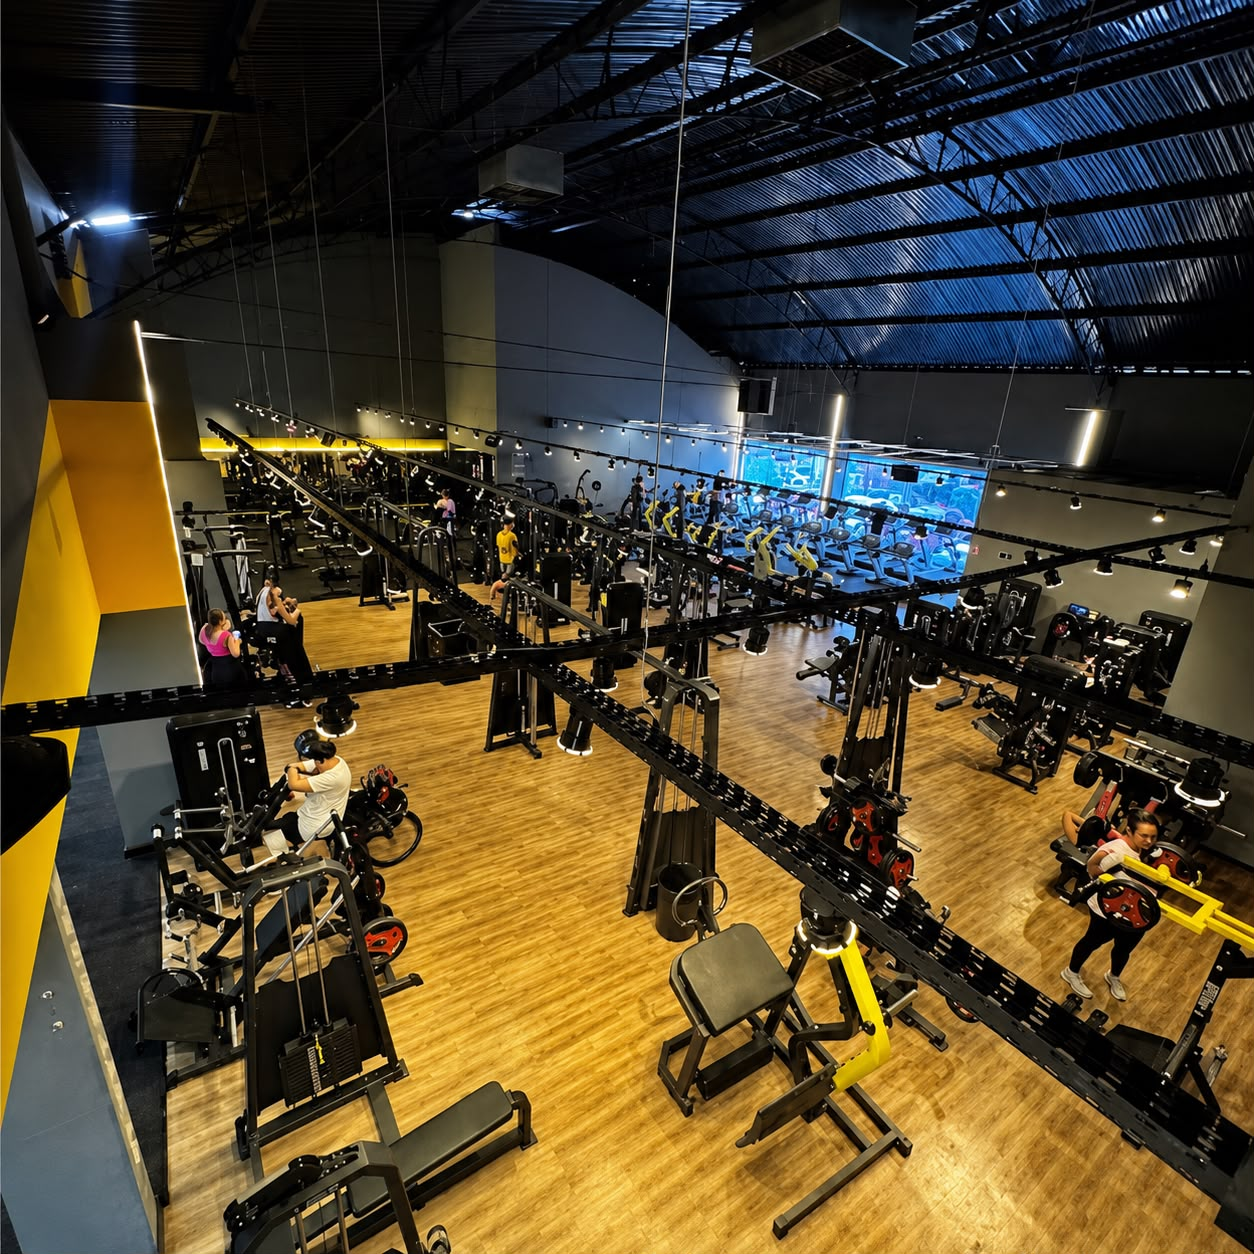
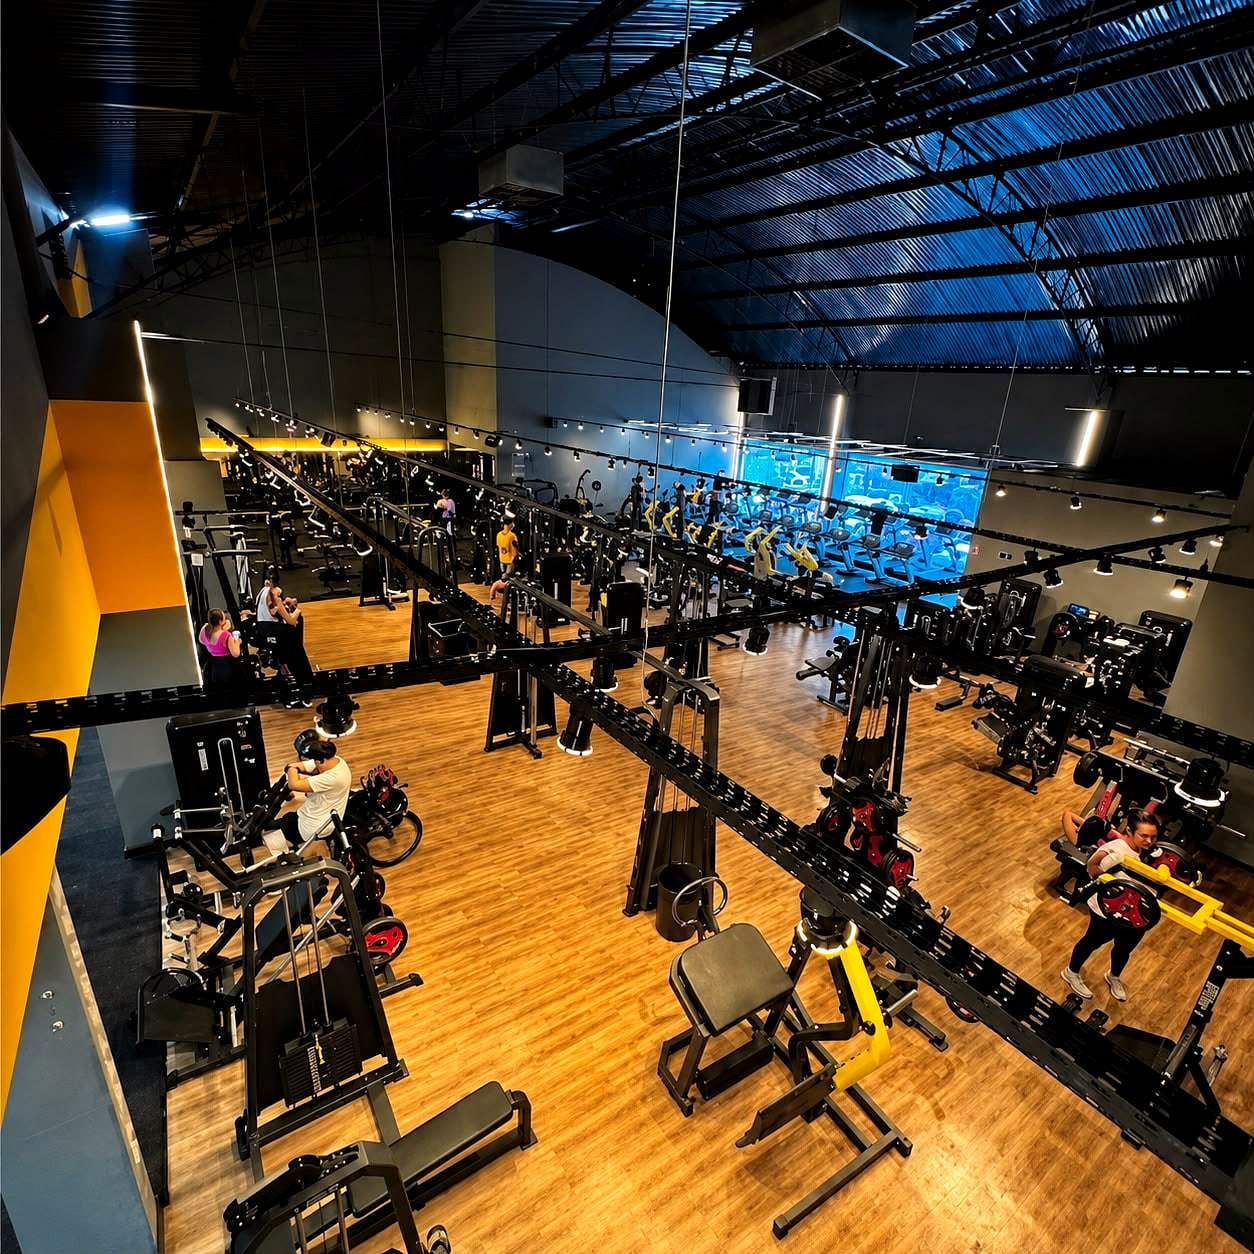
Corrige fotos ruins e remove aparência genérica
- Remove a foto de esteiras com reflexo de rua/anúncio de concorrente
  (estrutura-esteiras-vidro.jpg), que estava pouco profissional
- Corrige o corredor de equipamentos: remove aviso de papel e painel
  bagunçado que apareciam na borda esquerda da foto
- Corrige o forte tom azulado do teto na foto aérea do piso de musculação
- Reduz a seção Modalidades de 6 para 4 cards, cada um usando a foto
  real correspondente (antes reaproveitava fotos de musculação com
  legendas de "aulas coletivas"/"avaliação física", o que parecia
  template genérico preenchido com imagem errada)
- Ajusta enquadramento (object-position) para não cortar a fachada e
  a placa de neon de forma estranha
- Adiciona acabamento de cantos em amarelo (hover) e numeração nos
  cards de diferenciais para reforçar identidade visual própria

diff --git a/index.html b/index.html
@@ -178,7 +178,7 @@
 <section class="pain-section section-pad" id="transformacao">
   <div class="container pain-grid">
     <div class="pain-visual reveal" data-reveal>
-      <img src="assets/img/estrutura-musculacao-led.jpg" alt="Área de musculação da Loud Fit Anchieta com iluminação em LED" loading="lazy" width="1160" height="1254">
+      <img src="assets/img/estrutura-musculacao-led.jpg" alt="Área de musculação da Loud Fit Anchieta com iluminação em LED" loading="lazy" width="1164" height="1351">
       <div class="pain-visual-glow"></div>
     </div>
     <div class="pain-copy">
@@ -297,7 +297,7 @@
         <figcaption>Piso completo de musculação</figcaption>
       </figure>
       <figure class="mosaic-item reveal" data-reveal>
-        <img src="assets/img/fachada-loud-fit.jpg" alt="Fachada da Loud Fit Anchieta" loading="lazy" width="1128" height="1254">
+        <img src="assets/img/fachada-loud-fit.jpg" alt="Fachada da Loud Fit Anchieta" loading="lazy" width="1122" height="1402" class="obj-top">
         <figcaption>Fachada Loud Fit Anchieta</figcaption>
       </figure>
       <figure class="mosaic-item reveal" data-reveal>
@@ -305,16 +305,16 @@
         <figcaption>Área de cardio</figcaption>
       </figure>
       <figure class="mosaic-item reveal" data-reveal>
-        <img src="assets/img/estrutura-peso-livre.jpg" alt="Área de pesos livres com iluminação em LED" loading="lazy" width="1254" height="1254">
+        <img src="assets/img/estrutura-peso-livre.jpg" alt="Área de pesos livres com iluminação em LED" loading="lazy" width="1254" height="1254" class="obj-low">
         <figcaption>Pesos livres</figcaption>
       </figure>
       <figure class="mosaic-item mosaic-large reveal" data-reveal>
-        <img src="assets/img/estrutura-corredor-equipamentos.jpg" alt="Corredor de equipamentos de musculação" loading="lazy" width="1447" height="1254">
+        <img src="assets/img/estrutura-corredor-equipamentos.jpg" alt="Corredor de equipamentos de musculação" loading="lazy" width="968" height="1086">
         <figcaption>Equipamentos modernos</figcaption>
       </figure>
       <figure class="mosaic-item reveal" data-reveal>
-        <img src="assets/img/estrutura-esteiras-vidro.jpg" alt="Esteiras com vista para a rua" loading="lazy" width="1447" height="1254">
-        <figcaption>Cardio com vista</figcaption>
+        <img src="assets/img/estrutura-musculacao-pesos.jpg" alt="Área de treino de força da Loud Fit Anchieta" loading="lazy" width="1254" height="1254">
+        <figcaption>Treino de força</figcaption>
       </figure>
     </div>
 
@@ -334,45 +334,31 @@
 
     <div class="modalidades-grid" data-track-view="click_modalidades">
       <article class="modalidade-card reveal" data-reveal>
-        <div class="modalidade-img"><img src="assets/img/estrutura-vista-ampla.jpg" alt="Musculação" loading="lazy" width="600" height="450"></div>
+        <div class="modalidade-img"><img src="assets/img/estrutura-peso-livre.jpg" alt="Área de musculação da Loud Fit Anchieta" loading="lazy" width="600" height="450" class="obj-low"></div>
         <div class="modalidade-body">
           <h3>Musculação</h3>
           <p>Equipamentos completos para ganho de força e hipertrofia em qualquer nível.</p>
         </div>
       </article>
       <article class="modalidade-card reveal" data-reveal>
-        <div class="modalidade-img"><img src="assets/img/estrutura-esteiras.jpg" alt="Cardio" loading="lazy" width="600" height="450"></div>
+        <div class="modalidade-img"><img src="assets/img/estrutura-esteiras.jpg" alt="Área de cardio com esteiras" loading="lazy" width="600" height="450"></div>
         <div class="modalidade-body">
           <h3>Cardio</h3>
           <p>Esteiras e equipamentos de condicionamento para queimar calorias e evoluir o fôlego.</p>
         </div>
       </article>
       <article class="modalidade-card reveal" data-reveal>
-        <div class="modalidade-img"><img src="assets/img/estrutura-musculacao-led.jpg" alt="Aulas coletivas" loading="lazy" width="600" height="450"></div>
-        <div class="modalidade-body">
-          <h3>Aulas coletivas</h3>
-          <p>Energia em grupo para deixar o treino mais motivador e variado.</p>
-        </div>
-      </article>
-      <article class="modalidade-card reveal" data-reveal>
-        <div class="modalidade-img"><img src="assets/img/estrutura-peso-livre.jpg" alt="Avaliação física" loading="lazy" width="600" height="450"></div>
-        <div class="modalidade-body">
-          <h3>Avaliação física</h3>
-          <p>Um ponto de partida claro para acompanhar sua evolução com mais precisão.</p>
-        </div>
-      </article>
-      <article class="modalidade-card reveal" data-reveal>
-        <div class="modalidade-img"><img src="assets/img/estrutura-corredor-equipamentos.jpg" alt="Condicionamento" loading="lazy" width="600" height="450"></div>
-        <div class="modalidade-body">
-          <h3>Condicionamento</h3>
-          <p>Treinos pensados para melhorar resistência, disposição e performance.</p>
-        </div>
-      </article>
-      <article class="modalidade-card reveal" data-reveal>
-        <div class="modalidade-img"><img src="assets/img/estrutura-musculacao-pesos.jpg" alt="Treino de força" loading="lazy" width="600" height="450"></div>
+        <div class="modalidade-img"><img src="assets/img/estrutura-musculacao-pesos.jpg" alt="Área de treino de força" loading="lazy" width="600" height="450"></div>
         <div class="modalidade-body">
           <h3>Treino de força</h3>
           <p>Estrutura completa de pesos livres e máquinas para evoluir sua carga com segurança.</p>
+        </div>
+      </article>
+      <article class="modalidade-card reveal" data-reveal>
+        <div class="modalidade-img"><img src="assets/img/estrutura-musculacao-led.jpg" alt="Ambiente premium da Loud Fit Anchieta" loading="lazy" width="600" height="450"></div>
+        <div class="modalidade-body">
+          <h3>Estrutura premium</h3>
+          <p>Ambiente amplo, iluminado e organizado para elevar cada treino.</p>
         </div>
       </article>
     </div>
@@ -448,7 +434,7 @@
       <a href="#experimental" class="cta-primary reveal" data-reveal data-track="request_trial">Agendar Minha Primeira Aula</a>
     </div>
     <div class="iniciantes-visual reveal" data-reveal>
-      <img src="assets/img/estrutura-esteiras-vidro.jpg" alt="Ambiente acolhedor para iniciantes na Loud Fit Anchieta" loading="lazy" width="1254" height="1254">
+      <img src="assets/img/estrutura-corredor-equipamentos.jpg" alt="Ambiente acolhedor para iniciantes na Loud Fit Anchieta" loading="lazy" width="968" height="1086">
     </div>
   </div>
 </section>

diff --git a/css/style.css b/css/style.css
@@ -586,8 +586,8 @@ button { font-family: inherit; }
   gap: 64px;
   align-items: center;
 }
-.pain-visual { position: relative; border-radius: var(--radius-lg); overflow: hidden; }
-.pain-visual img { border-radius: var(--radius-lg); }
+.pain-visual { position: relative; border-radius: var(--radius-lg); overflow: hidden; border: 1px solid var(--line); }
+.pain-visual img { border-radius: var(--radius-lg); width: 100%; height: 100%; object-fit: cover; }
 .pain-visual-glow {
   position: absolute;
   inset: -20% -20% auto auto;
@@ -612,18 +612,34 @@ button { font-family: inherit; }
   display: grid;
   grid-template-columns: repeat(3, 1fr);
   gap: 20px;
+  counter-reset: diffcount;
 }
 
 .diff-card {
+  position: relative;
   background: linear-gradient(160deg, var(--charcoal), var(--graphite));
   border: 1px solid var(--line);
+  border-top: 2px solid rgba(255,210,0,0.25);
   border-radius: var(--radius-md);
   padding: 30px 26px;
+  overflow: hidden;
+  counter-increment: diffcount;
   transition: transform 0.35s var(--ease), border-color 0.35s ease, box-shadow 0.35s ease;
+}
+.diff-card::after {
+  content: counter(diffcount, decimal-leading-zero);
+  position: absolute;
+  top: 14px; right: 18px;
+  font-family: var(--font-display);
+  font-size: 30px;
+  color: rgba(255,255,255,0.06);
+  letter-spacing: 1px;
+  line-height: 1;
 }
 .diff-card:hover {
   transform: translateY(-6px);
   border-color: rgba(255,210,0,0.4);
+  border-top-color: var(--yellow);
   box-shadow: 0 16px 34px rgba(0,0,0,0.4), 0 0 0 1px rgba(255,210,0,0.08);
 }
 .diff-icon {
@@ -677,8 +693,12 @@ button { font-family: inherit; }
 .mosaic-item img {
   width: 100%; height: 100%;
   object-fit: cover;
+  object-position: center;
   transition: transform 0.6s var(--ease), filter 0.6s ease;
 }
+.mosaic-item img.obj-top { object-position: top center; }
+.mosaic-item img.obj-bottom { object-position: bottom center; }
+.mosaic-item img.obj-low, .modalidade-img img.obj-low { object-position: center 78%; }
 .mosaic-item:hover img { transform: scale(1.07); filter: brightness(1.05); }
 
 .mosaic-item::after {
@@ -694,6 +714,38 @@ button { font-family: inherit; }
   font-weight: 700;
   letter-spacing: 0.3px;
   color: var(--white);
+}
+
+/* corner-bracket accent on hover — premium editorial touch, shared by all photo frames */
+.mosaic-item, .modalidade-img, .pain-visual, .iniciantes-visual {
+  position: relative;
+}
+.mosaic-item::before,
+.modalidade-img::before,
+.pain-visual::before,
+.iniciantes-visual::before {
+  content: "";
+  position: absolute;
+  inset: 10px;
+  z-index: 2;
+  pointer-events: none;
+  opacity: 0;
+  transition: opacity 0.35s ease, inset 0.35s ease;
+  background:
+    linear-gradient(var(--yellow), var(--yellow)) top left / 22px 2px no-repeat,
+    linear-gradient(var(--yellow), var(--yellow)) top left / 2px 22px no-repeat,
+    linear-gradient(var(--yellow), var(--yellow)) top right / 22px 2px no-repeat,
+    linear-gradient(var(--yellow), var(--yellow)) top right / 2px 22px no-repeat,
+    linear-gradient(var(--yellow), var(--yellow)) bottom left / 22px 2px no-repeat,
+    linear-gradient(var(--yellow), var(--yellow)) bottom left / 2px 22px no-repeat,
+    linear-gradient(var(--yellow), var(--yellow)) bottom right / 22px 2px no-repeat,
+    linear-gradient(var(--yellow), var(--yellow)) bottom right / 2px 22px no-repeat;
+}
+.mosaic-item:hover::before,
+.modalidade-card:hover .modalidade-img::before,
+.pain-visual:hover::before,
+.iniciantes-visual:hover::before {
+  opacity: 1; inset: 14px;
 }
 
 .section-cta { text-align: center; }
@@ -715,7 +767,7 @@ button { font-family: inherit; }
 
 .modalidades-grid {
   display: grid;
-  grid-template-columns: repeat(3, 1fr);
+  grid-template-columns: repeat(4, 1fr);
   gap: 22px;
 }
 
@@ -734,7 +786,7 @@ button { font-family: inherit; }
 .modalidade-body h3 { font-size: 18px; font-weight: 800; margin: 0 0 8px; }
 .modalidade-body p { color: var(--text-muted); font-size: 14.5px; margin: 0; }
 
-@media (max-width: 900px) {
+@media (max-width: 1080px) {
   .modalidades-grid { grid-template-columns: repeat(2, 1fr); }
 }
 @media (max-width: 580px) {
